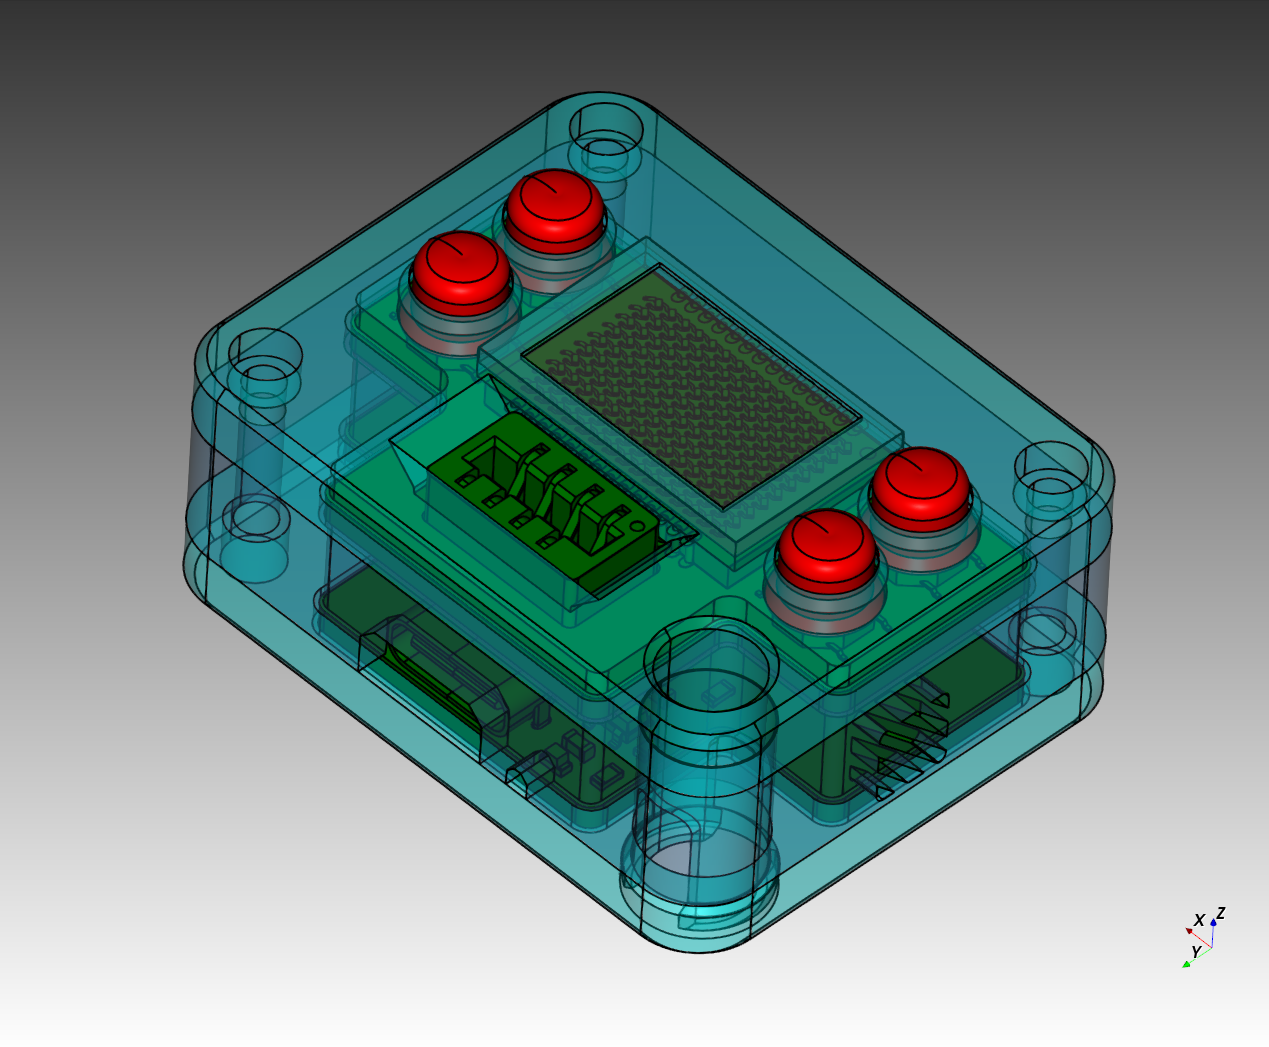
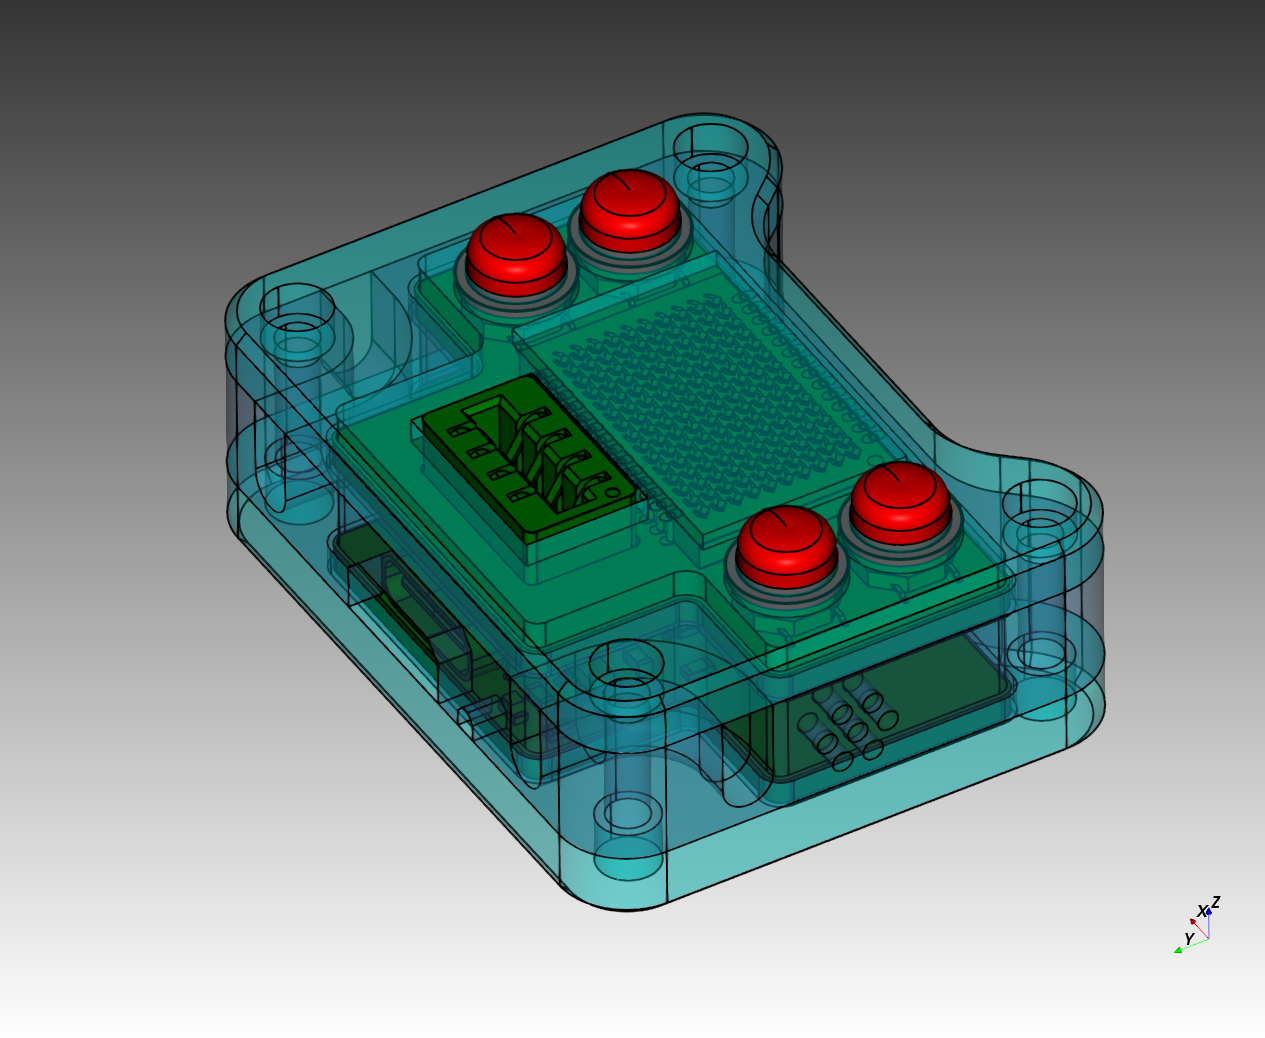
update README & cad pictures

diff --git a/README.md b/README.md
@@ -7,10 +7,10 @@ Work in progress.
 
 EMES has the following specifications:
 
- - Screen: 10x7 pixels, LED
+ - Screen: 15x10 pixels, LED
  - Input: four button keyboard
  - Sound: Magnetic buzzer
- - Physical dimensions(approx): 25x24x18mm 
+ - Physical dimensions(approx): 40x32x14mm 
  - Removeable 8-pin cartridges
 
 ![EMES](images/EMES_01.png)
@@ -29,18 +29,8 @@ Each cartridge features an ATTiny10 MCU with the following specs:
 
 ## Games
 
-Currently, two games are implemented and playable - variations of Pong and Snake. 
-
-![EMES jif](images/EMES_03.gif)
-![EMES jif](images/EMES_04.gif)
-
-
-## Planned games
-
-Variations of these classics are planned to be implemented: **Simon says**, **Breakout/Arkanoid**
-
-## Other things to do
-
- - Additional PCB for battery powering/charging
- - Plastic 3d-printed case
-
+ - Pong
+ - Snek - a snake variant, edge wrapping
+ - Egg -  a N1ntend0 Game & Watch-like egg-catching game 
+ - Brik - a Tetris-like
+ - Simon - Simon Says
